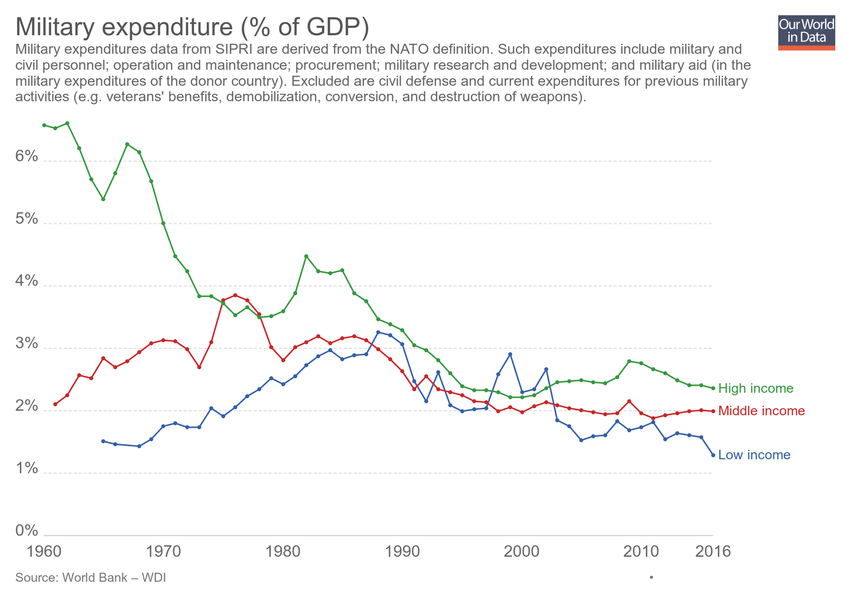
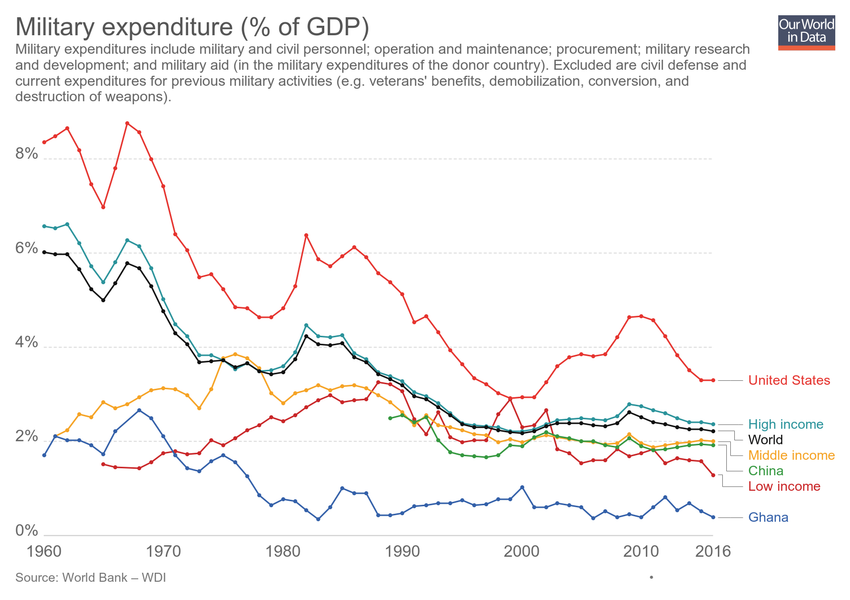
Updating chart military-expenditure-share-gdp-sipri

diff --git a/grapher/military-expenditure-share-gdp-sipri.html b/grapher/military-expenditure-share-gdp-sipri.html
@@ -1,4 +1,4 @@
-<!doctype html><html><head><meta name="viewport" content="width=device-width, initial-scale=1" /><title>Military expenditure (% of GDP) - Our World in Data</title><meta name="description" content="Military expenditures data from SIPRI are derived from the NATO definition. Such expenditures include military and civil personnel; operation and maintenance; procurement; military research and development; and military aid (in the military expenditures of the donor country). Excluded are civil defense and current expenditures for previous military activities (e.g. veterans' benefits, demobilization, conversion, and destruction of weapons)." /><link rel="canonical" href="https://ourworldindata.org/grapher/military-expenditure-share-gdp-sipri" /><meta property="fb:app_id" content="1149943818390250" /><meta property="og:url" content="https://ourworldindata.org/grapher/military-expenditure-share-gdp-sipri" /><meta property="og:title" content="Military expenditure (% of GDP)" /><meta property="og:description" content="Military expenditures data from SIPRI are derived from the NATO definition. Such expenditures include military and civil personnel; operation and maintenance; procurement; military research and development; and military aid (in the military expenditures of the donor country). Excluded are civil defense and current expenditures for previous military activities (e.g. veterans' benefits, demobilization, conversion, and destruction of weapons)." /><meta property="og:image" content="https://ourworldindata.org/grapher/exports/military-expenditure-share-gdp-sipri.png?v=1" /><meta property="og:image:width" content="850" /><meta property="og:image:height" content="600" /><meta property="og:site_name" content="Our World in Data" /><meta name="twitter:card" content="summary_large_image" /><meta name="twitter:site" content="@OurWorldInData" /><meta name="twitter:creator" content="@OurWorldInData" /><meta name="twitter:title" content="Military expenditure (% of GDP)" /><meta name="twitter:description" content="Military expenditures data from SIPRI are derived from the NATO definition. Such expenditures include military and civil personnel; operation and maintenance; procurement; military research and development; and military aid (in the military expenditures of the donor country). Excluded are civil defense and current expenditures for previous military activities (e.g. veterans' benefits, demobilization, conversion, and destruction of weapons)." /><meta name="twitter:image" content="https://ourworldindata.org/grapher/exports/military-expenditure-share-gdp-sipri.png?v=1" /><style>
+<!doctype html><html><head><meta name="viewport" content="width=device-width, initial-scale=1" /><title>Military expenditure (% of GDP) - Our World in Data</title><meta name="description" content="Military expenditures include military and civil personnel; operation and maintenance; procurement; military research and development; and military aid (in the military expenditures of the donor country). Excluded are civil defense and current expenditures for previous military activities (e.g. veterans' benefits, demobilization, conversion, and destruction of weapons)." /><link rel="canonical" href="https://ourworldindata.org/grapher/military-expenditure-share-gdp-sipri" /><meta property="fb:app_id" content="1149943818390250" /><meta property="og:url" content="https://ourworldindata.org/grapher/military-expenditure-share-gdp-sipri" /><meta property="og:title" content="Military expenditure (% of GDP)" /><meta property="og:description" content="Military expenditures include military and civil personnel; operation and maintenance; procurement; military research and development; and military aid (in the military expenditures of the donor country). Excluded are civil defense and current expenditures for previous military activities (e.g. veterans' benefits, demobilization, conversion, and destruction of weapons)." /><meta property="og:image" content="https://ourworldindata.org/grapher/exports/military-expenditure-share-gdp-sipri.png?v=3" /><meta property="og:image:width" content="850" /><meta property="og:image:height" content="600" /><meta property="og:site_name" content="Our World in Data" /><meta name="twitter:card" content="summary_large_image" /><meta name="twitter:site" content="@OurWorldInData" /><meta name="twitter:creator" content="@OurWorldInData" /><meta name="twitter:title" content="Military expenditure (% of GDP)" /><meta name="twitter:description" content="Military expenditures include military and civil personnel; operation and maintenance; procurement; military research and development; and military aid (in the military expenditures of the donor country). Excluded are civil defense and current expenditures for previous military activities (e.g. veterans' benefits, demobilization, conversion, and destruction of weapons)." /><meta name="twitter:image" content="https://ourworldindata.org/grapher/exports/military-expenditure-share-gdp-sipri.png?v=3" /><style>
         html, body {
             height: 100%;
             margin: 0;
@@ -20,8 +20,8 @@
         }
     </style><noscript><style>
                     figure { display: none !important; }
-                </style></noscript><link rel="stylesheet" href="https://ourworldindata.org/grapher/assets/commons.bundle.046264a5fd643542a8df.css" /><link rel="preload" href="/grapher/data/variables/2802.json?v=1" as="fetch" crossorigin /></head><body class="singleChart"><figure data-grapher-src="/grapher/military-expenditure-share-gdp-sipri"></figure><noscript id="fallback"><img src="/grapher/exports/military-expenditure-share-gdp-sipri.svg" /><p>Interactive visualization requires JavaScript</p></noscript><script src="https://cdn.polyfill.io/v2/polyfill.min.js?features=es6,fetch"></script><script src="https://ourworldindata.org/grapher/assets/commons.bundle.046264a5fd643542a8df.js"></script><script src="https://ourworldindata.org/grapher/assets/charts.bundle.dcf65b68eddaba4c6a58.js"></script><script>
-        var jsonConfig = {"map":{"projection":"World","colorSchemeLabels":[],"colorSchemeValues":[],"colorSchemeMinValue":0,"customNumericColors":[],"customCategoryColors":{},"customCategoryLabels":{},"customHiddenCategories":{}},"tab":"chart","slug":"military-expenditure-share-gdp-sipri","type":"LineChart","title":"Military expenditure (% of GDP)","xAxis":{"scaleType":"linear"},"yAxis":{"min":0,"scaleType":"linear"},"version":1,"subtitle":"Military expenditures data from SIPRI are derived from the NATO definition. Such expenditures include military and civil personnel; operation and maintenance; procurement; military research and development; and military aid (in the military expenditures of the donor country). Excluded are civil defense and current expenditures for previous military activities (e.g. veterans' benefits, demobilization, conversion, and destruction of weapons).","hasMapTab":true,"stackMode":"absolute","dimensions":[{"display":{},"property":"y","variableId":2802}],"hasChartTab":true,"isAutoTitle":true,"isPublished":true,"selectedData":[{"index":0,"entityId":326},{"index":0,"entityId":330},{"index":0,"entityId":320}],"addCountryMode":"add-country","id":2583};
+                </style></noscript><link rel="stylesheet" href="https://ourworldindata.org/grapher/assets/commons.bundle.046264a5fd643542a8df.css" /><link rel="preload" href="/grapher/data/variables/2802.json?v=3" as="fetch" crossorigin /></head><body class="singleChart"><figure data-grapher-src="/grapher/military-expenditure-share-gdp-sipri"></figure><noscript id="fallback"><img src="/grapher/exports/military-expenditure-share-gdp-sipri.svg" /><p>Interactive visualization requires JavaScript</p></noscript><script src="https://cdn.polyfill.io/v2/polyfill.min.js?features=es6,fetch"></script><script src="https://ourworldindata.org/grapher/assets/commons.bundle.046264a5fd643542a8df.js"></script><script src="https://ourworldindata.org/grapher/assets/charts.bundle.dcf65b68eddaba4c6a58.js"></script><script>
+        var jsonConfig = {"id":2583,"map":{"projection":"World","colorSchemeLabels":[],"colorSchemeValues":[],"colorSchemeMinValue":0,"customNumericColors":[],"customCategoryColors":{},"customCategoryLabels":{},"customHiddenCategories":{}},"tab":"chart","slug":"military-expenditure-share-gdp-sipri","type":"LineChart","title":"Military expenditure (% of GDP)","xAxis":{"scaleType":"linear"},"yAxis":{"min":0,"scaleType":"linear"},"version":3,"subtitle":"Military expenditures include military and civil personnel; operation and maintenance; procurement; military research and development; and military aid (in the military expenditures of the donor country). Excluded are civil defense and current expenditures for previous military activities (e.g. veterans' benefits, demobilization, conversion, and destruction of weapons).","hasMapTab":true,"stackMode":"absolute","dimensions":[{"display":{},"property":"y","variableId":2802}],"hasChartTab":true,"isAutoTitle":true,"isPublished":true,"selectedData":[{"index":0,"entityId":326},{"index":0,"entityId":330},{"index":0,"entityId":320},{"color":"#111","index":0,"entityId":355},{"index":0,"entityId":13},{"index":0,"entityId":171},{"index":0,"entityId":150}],"addCountryMode":"add-country"};
         var figure = document.getElementsByTagName("figure")[0];
         try {
             window.App = {};
